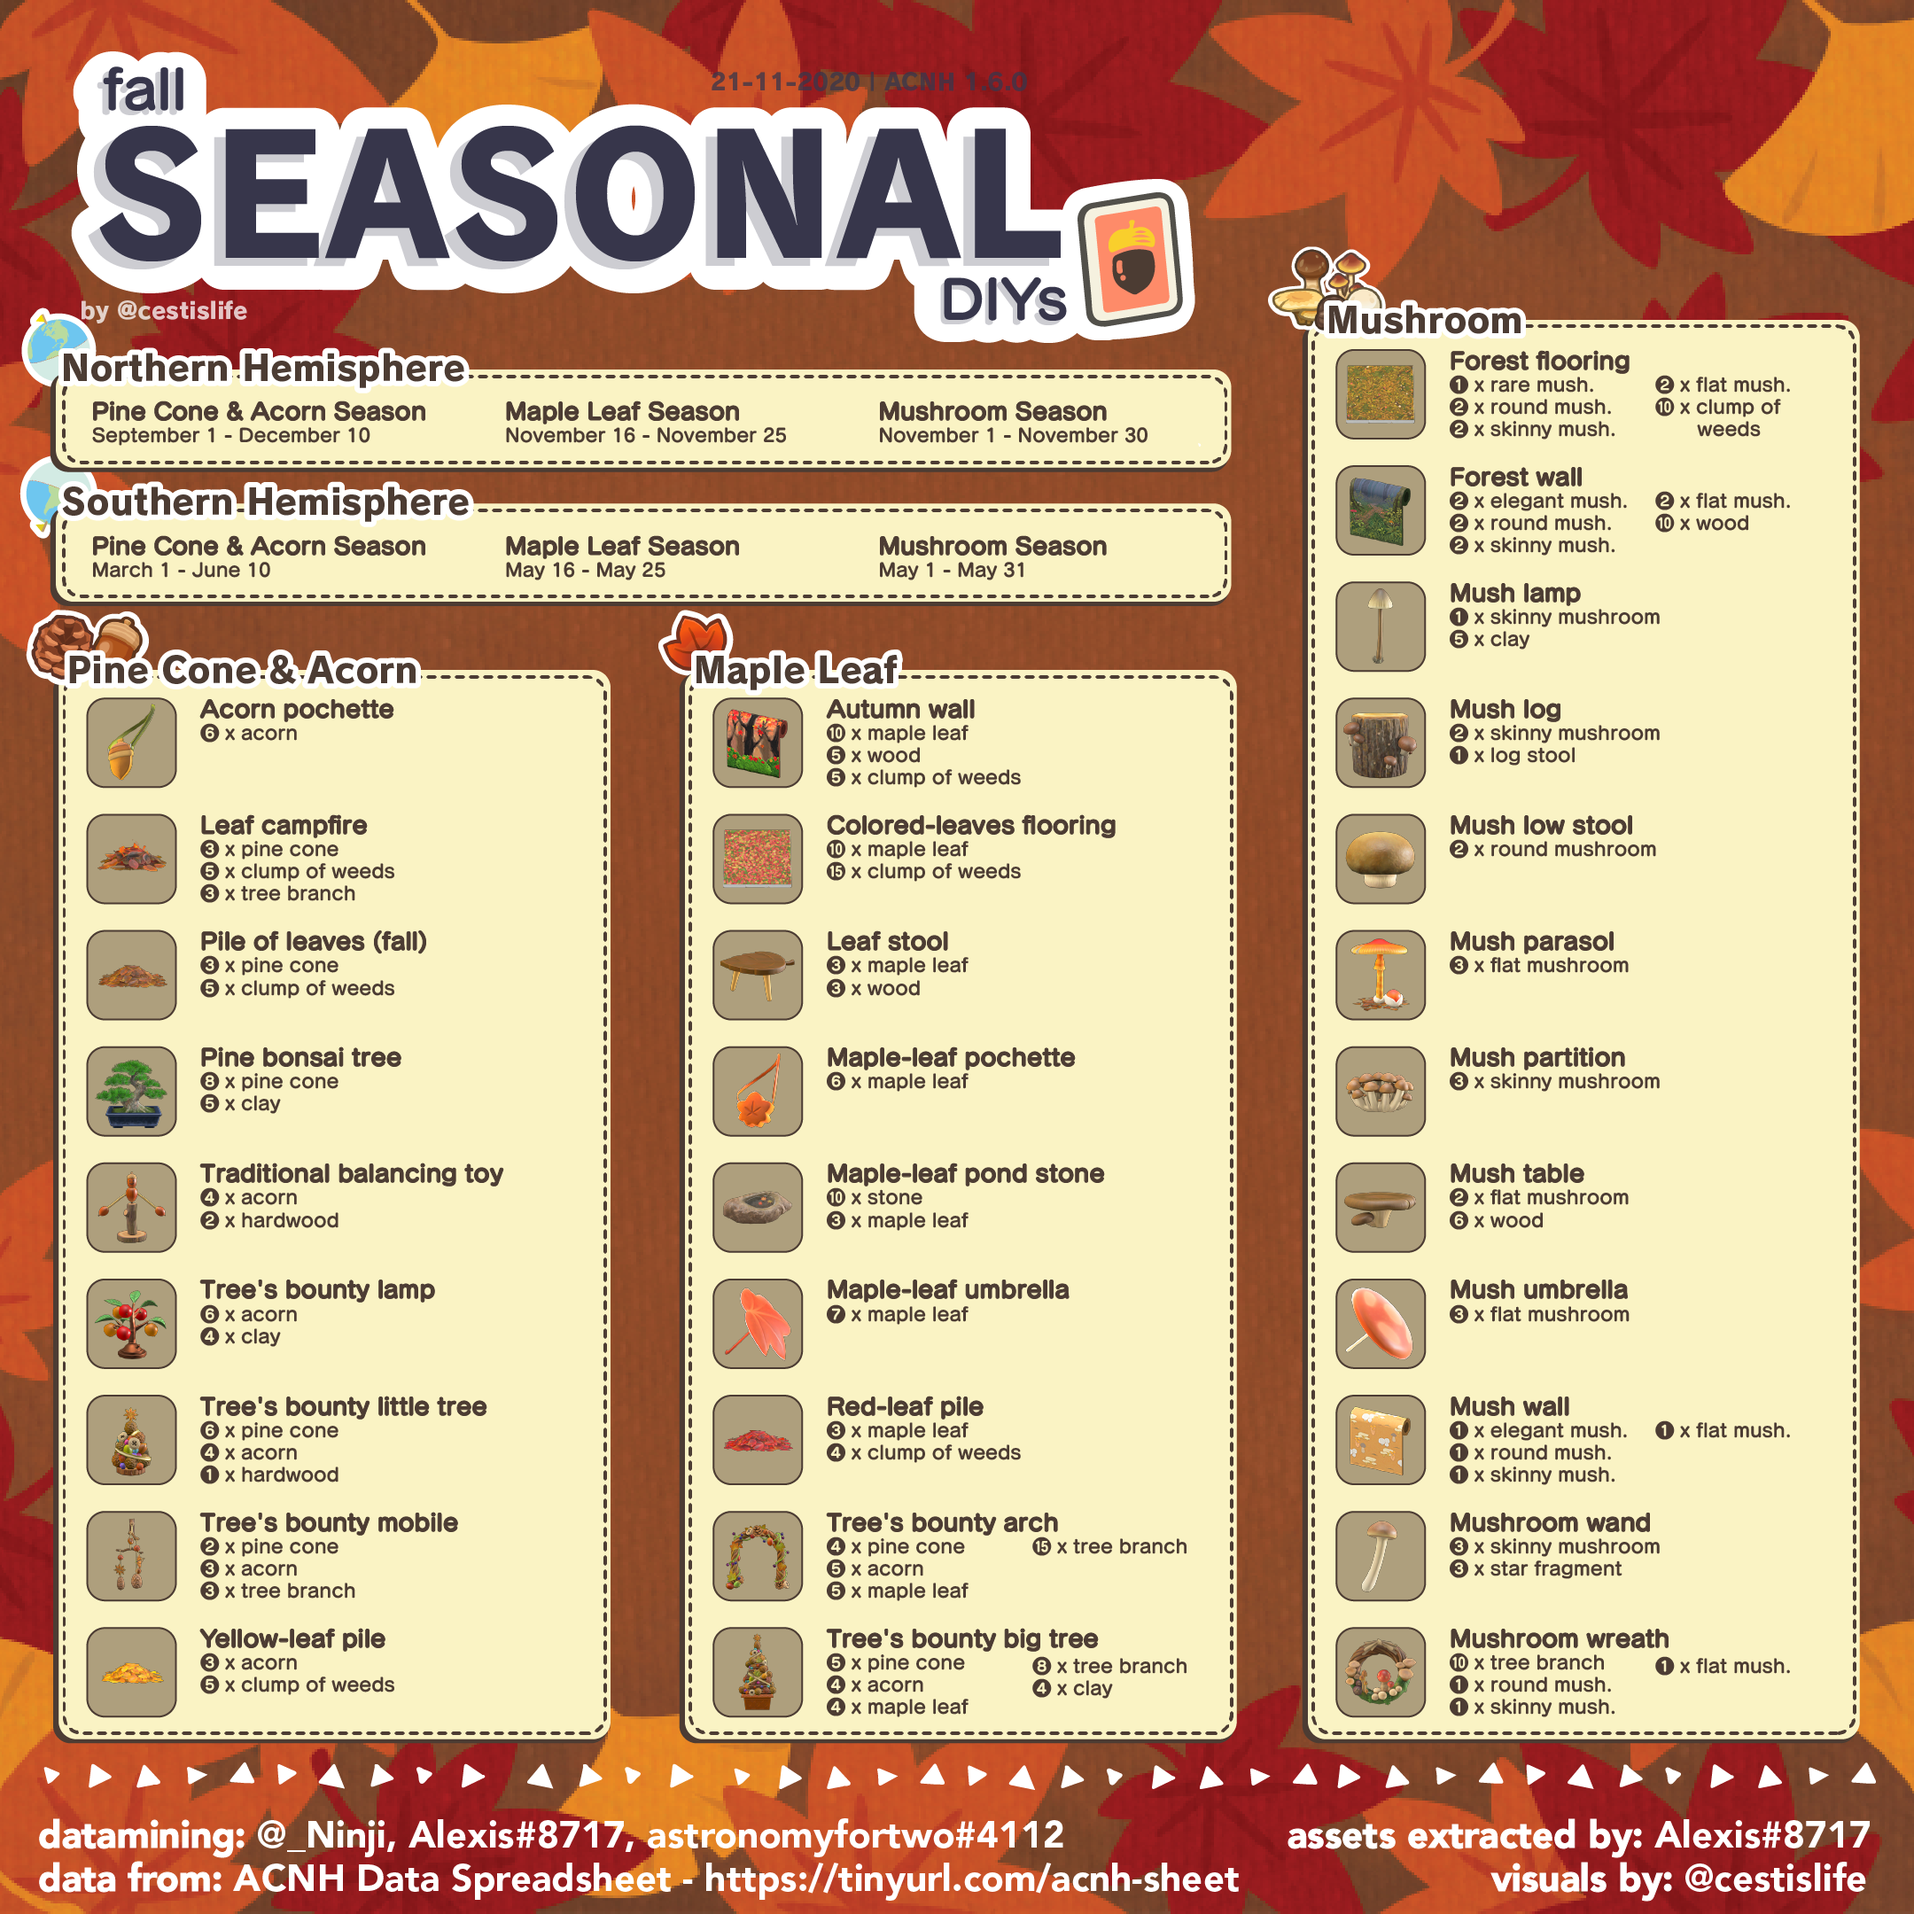
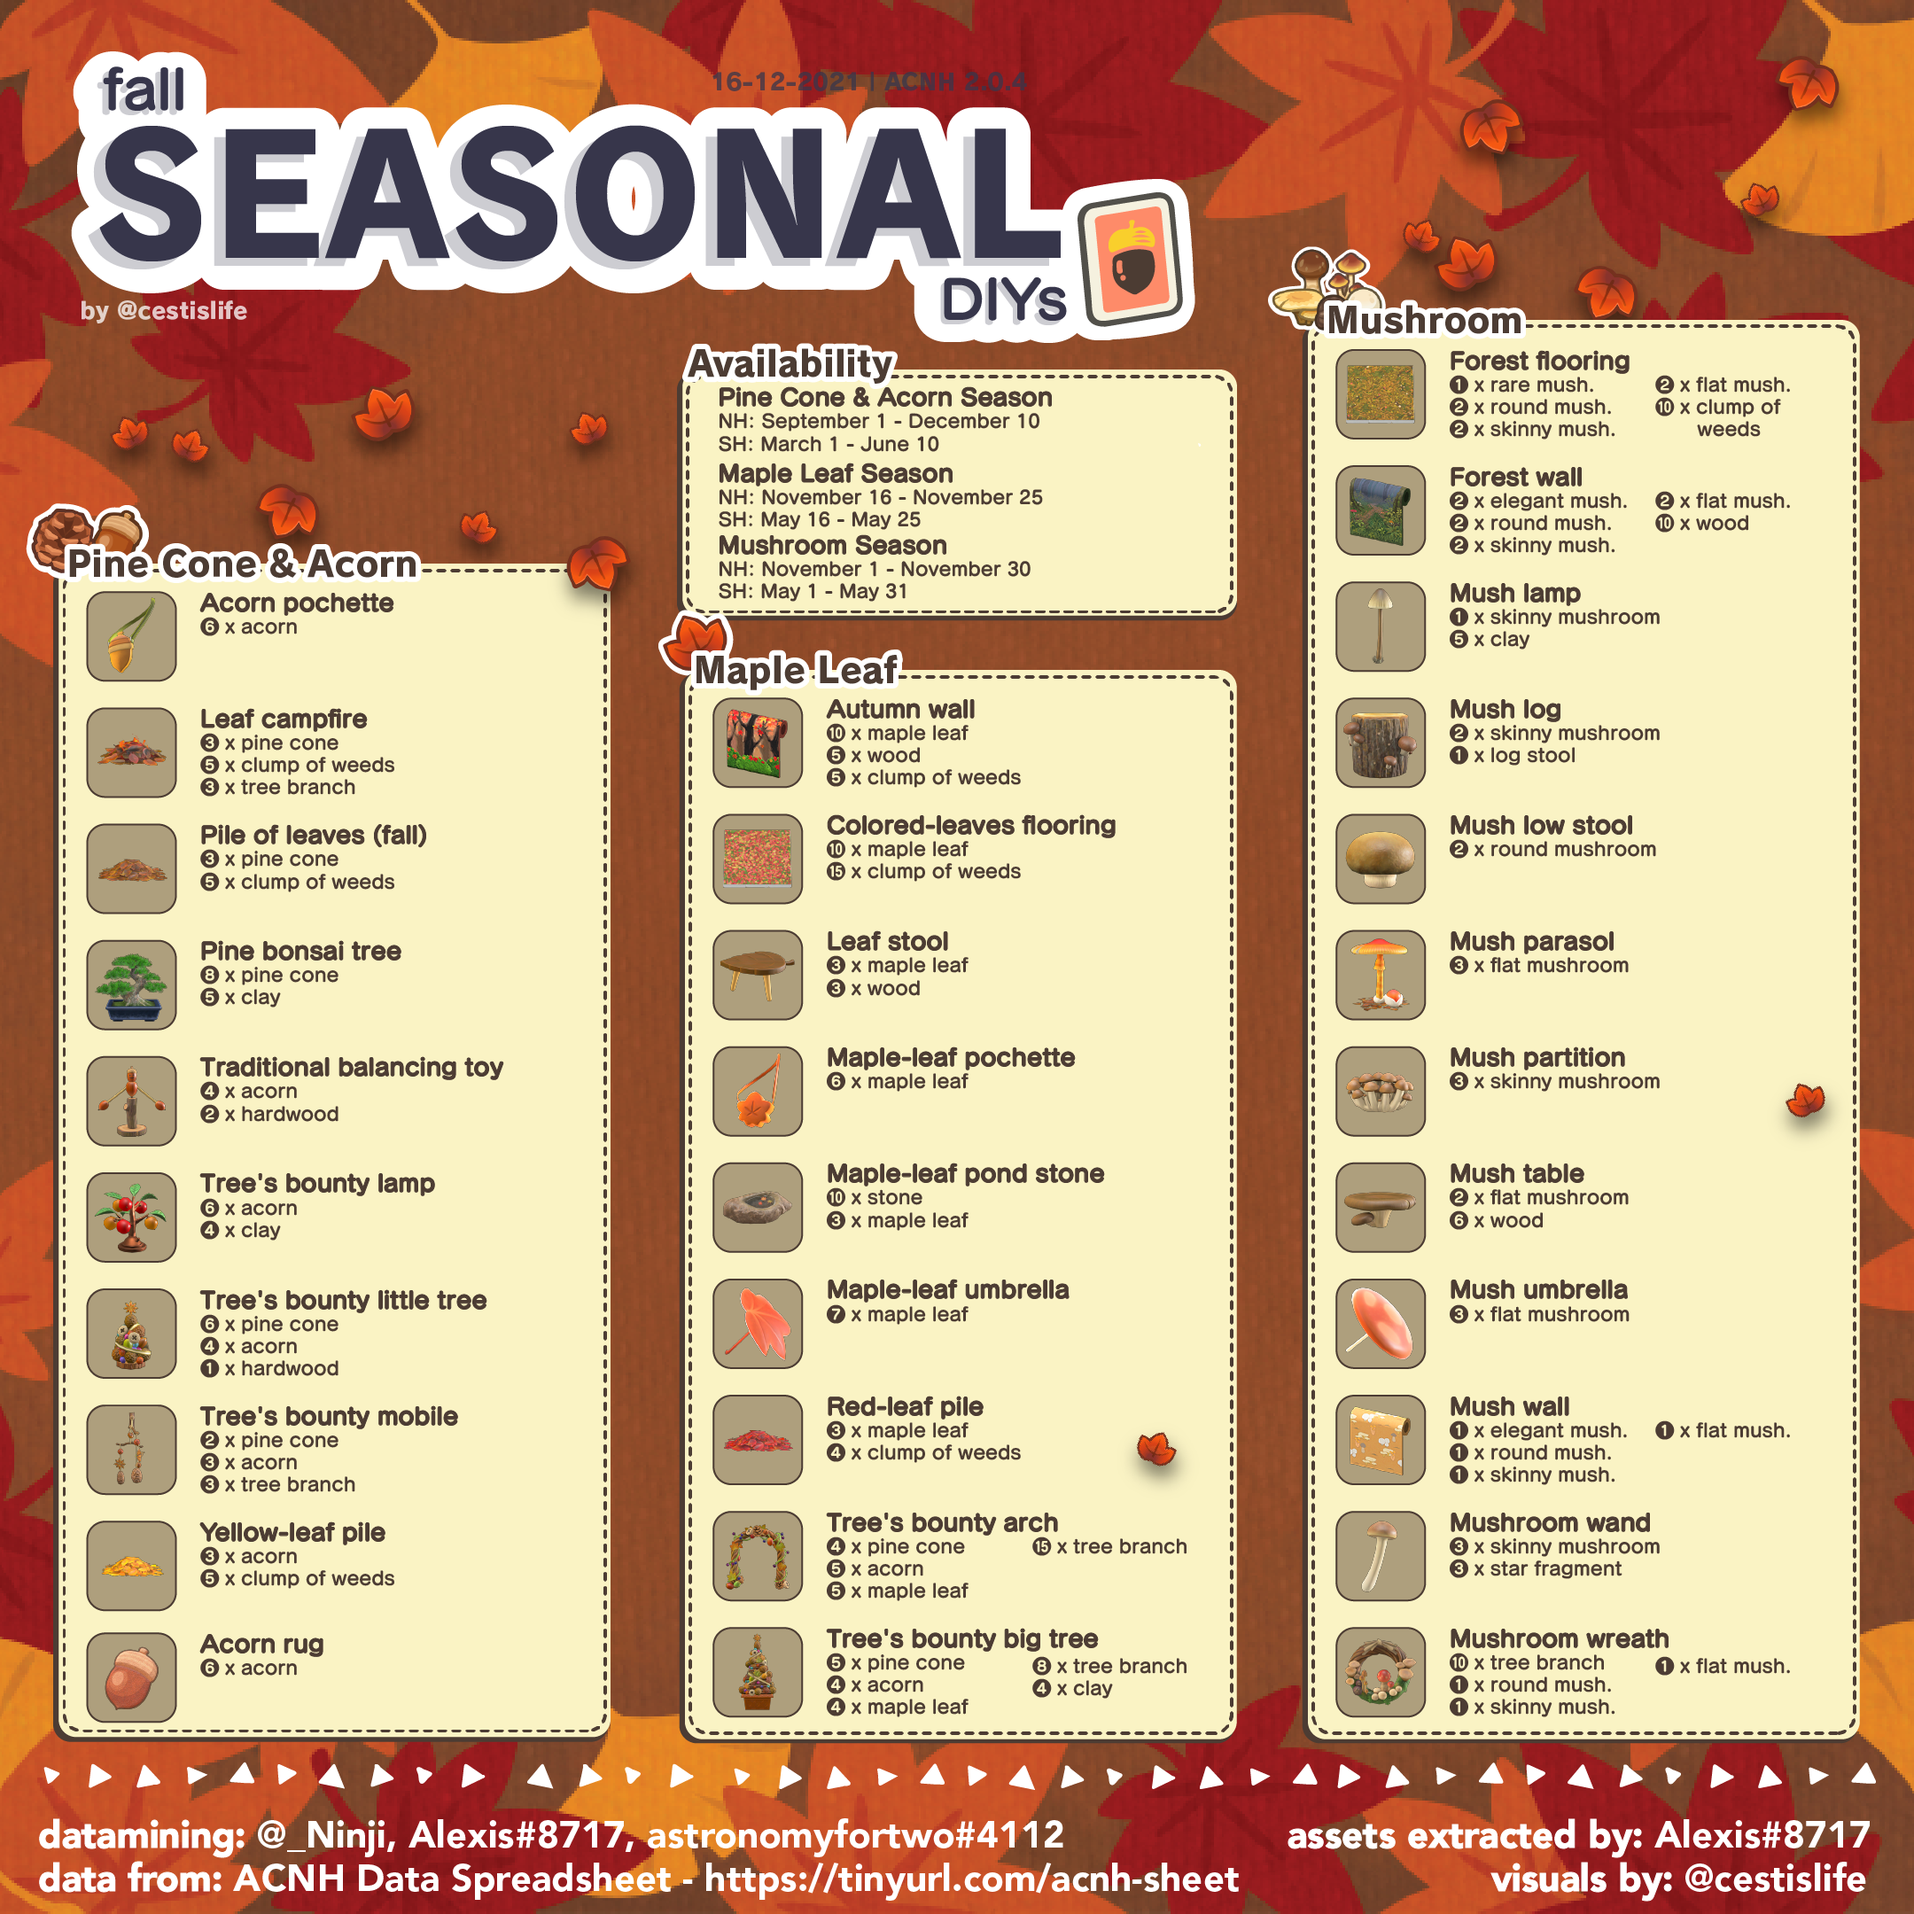
updated seasonal diy guides

diff --git a/index.md b/index.md
@@ -21,20 +21,23 @@
 * [🦚 Festivale](https://cestislife.github.io/festivale)   
 * [🥚 Bunny Day](https://cestislife.github.io/bunnyday)         
 * [🎄 Toy Day](https://cestislife.github.io/toyday)   
-* [🦃 Turkey Day](https://cestislife.github.io/turkeyday)     *⭐ New! Guide updated to 2.0.3*   
+* [🦃 Turkey Day](https://cestislife.github.io/turkeyday)
 * [🎃 Halloween](https://cestislife.github.io/halloween)  
 
 ## Misc Guides:
-* [☕ Brewster & The Roost](https://cestislife.github.io/brewster)   *⭐ New!*  
-* [Seasonal DIYs](https://cestislife.github.io/seasonaldiy)   
+* [☕ Brewster & The Roost](https://cestislife.github.io/brewster)
+* [Seasonal DIYs](https://cestislife.github.io/seasonaldiy)   *⭐ New! Guide updated to 2.0.4*   
 * [Mystery Islands](https://cestislife.github.io/mysteryisland)   
-* [Miscellaneous](https://cestislife.github.io/misc)   *⭐ New! Reactions updated to 2.0.0*  
+* [Miscellaneous](https://cestislife.github.io/misc)
 
 * * *
 #### Changelog
 
 <details>
     <summary>Click for more</summary>
+
+> **16/12/2021**   
+> * Updated seasonal DIY guides.
 
 > **25/11/2021**   
 > * Updated Turkey Day guide.
